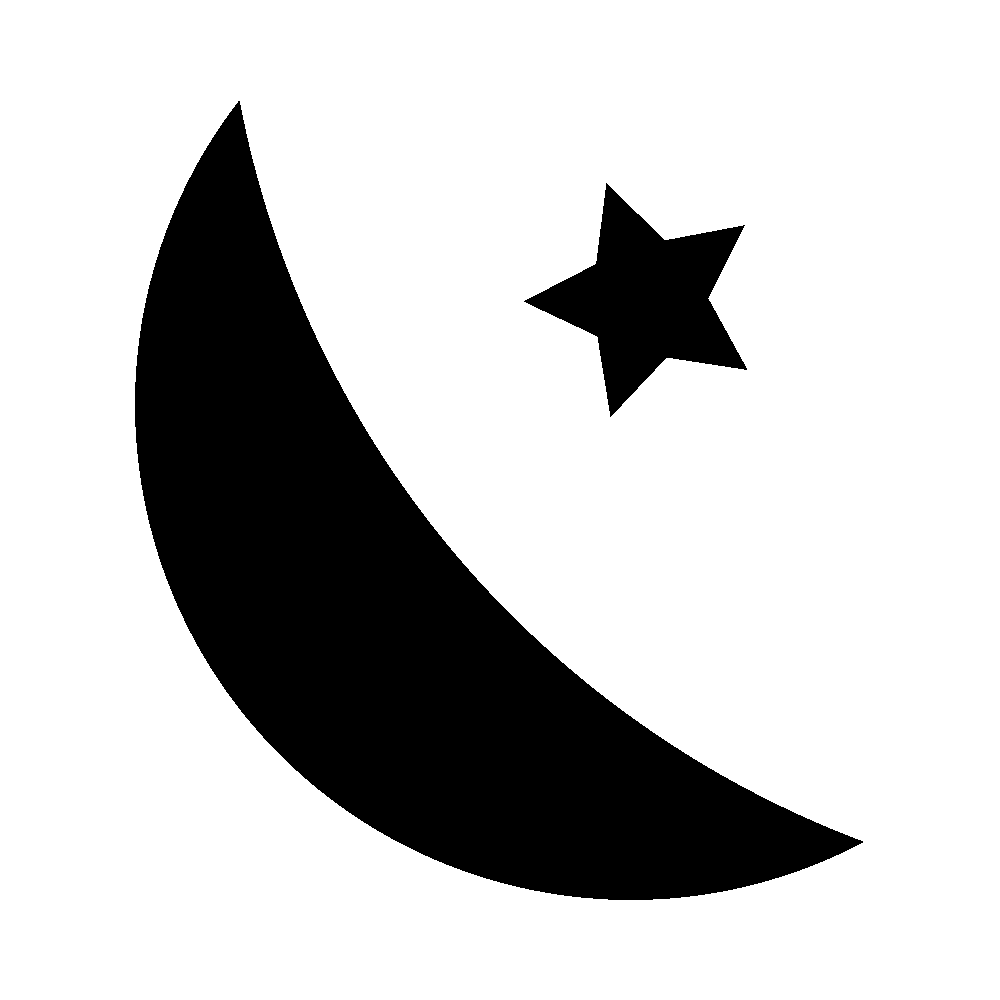
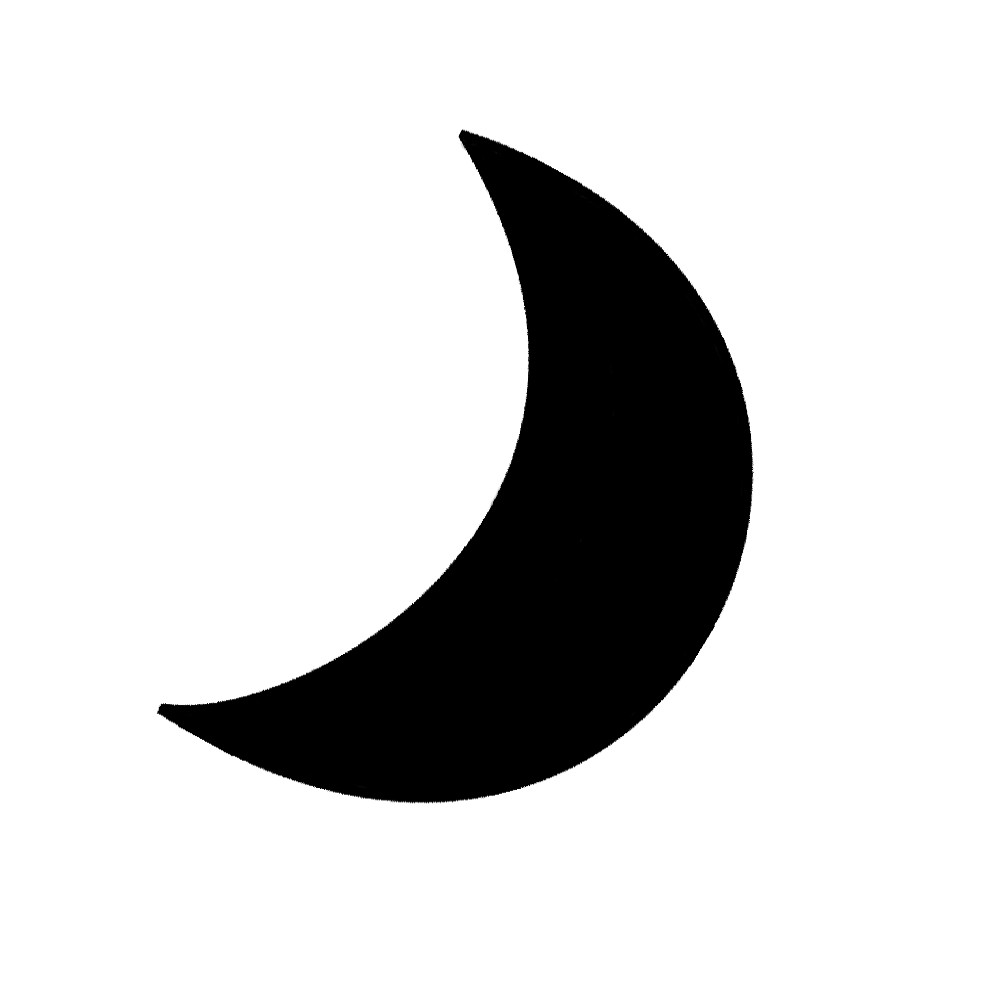
Added background image

Changed region(s): [[0.124, 0.093, 0.868, 0.899]]

diff --git a/README.md b/README.md
@@ -6,9 +6,9 @@ A simple React 360 application which includes:
 * A text button to increment a counter
 * An image button to switch the background image
 
-![Saltwash360](https://rdmilligan.files.wordpress.com/2018/12/React360_BackgroundImage_Night.png "Saltwash360")
+![Saltwash360](https://rdmilligan.files.wordpress.com/2018/12/React360_BackgroundImage_Moon.png "Saltwash360")
 
-[Watch the video](https://www.youtube.com/watch?v=V9y4GKabkho)
+[Watch the video](https://www.youtube.com/watch?v=PHJEDJHxvkU)
 
 [Read the post](https://rdmilligan.wordpress.com/2018/12/28/react-360-background-image/)
 
